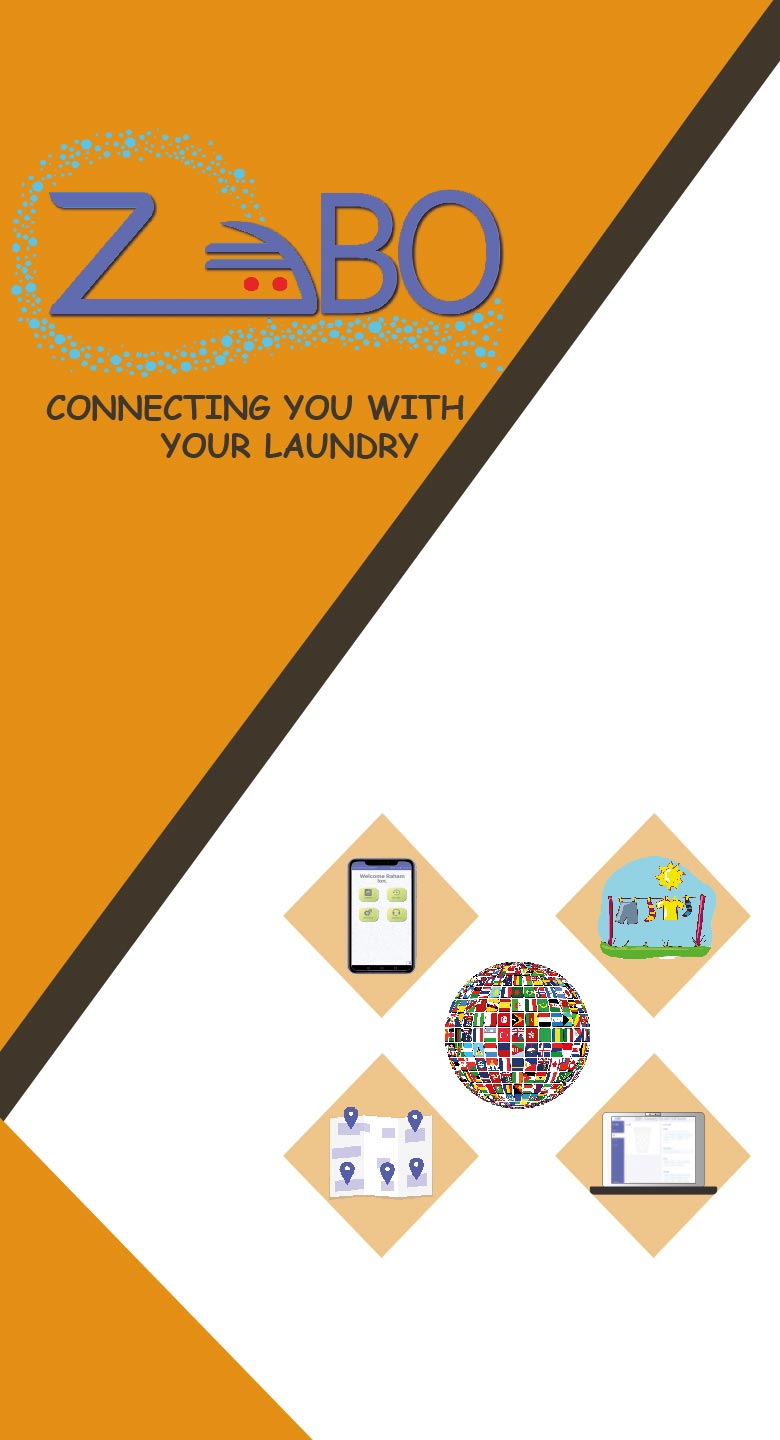
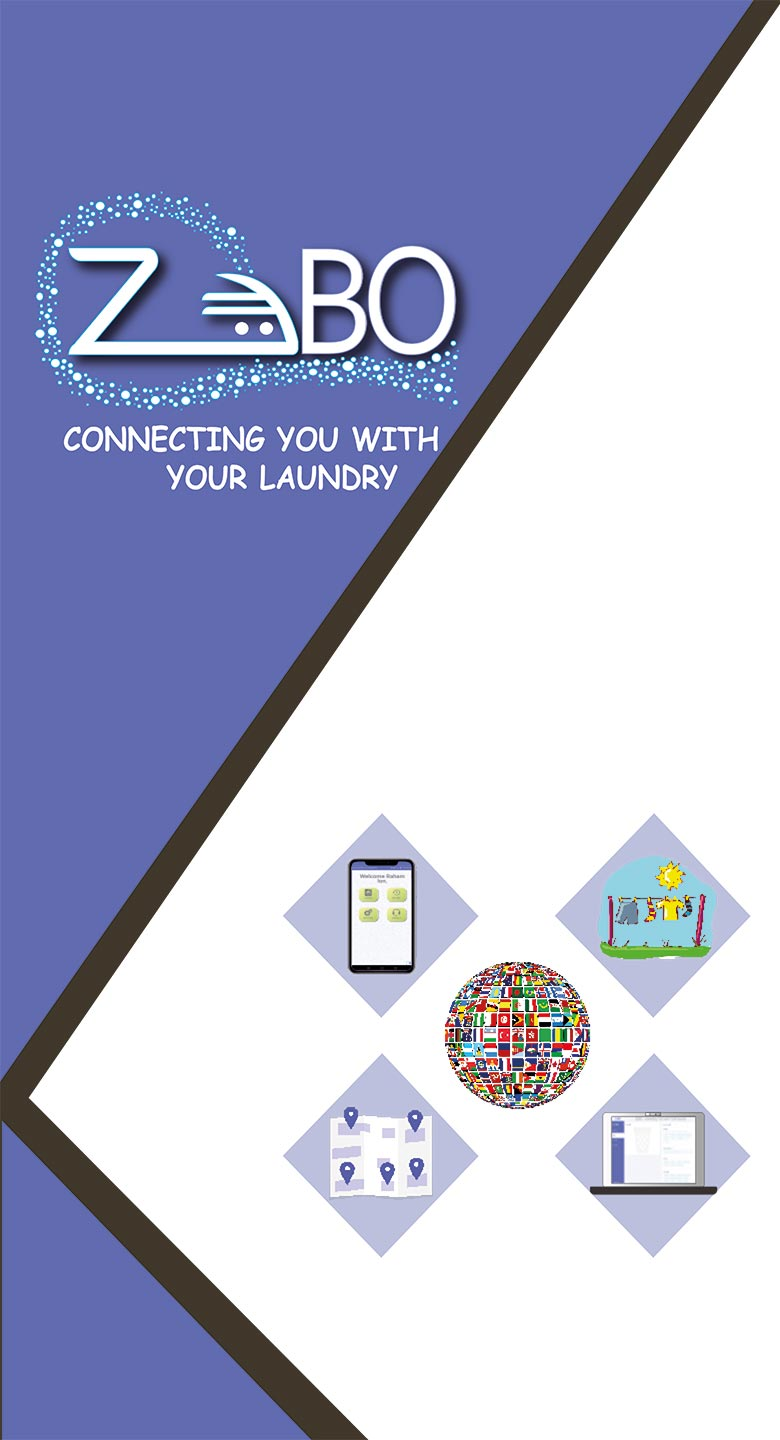
changes theme to blue
adds help center
changed favicon

diff --git a/_includes/services.html b/_includes/services.html
@@ -3,8 +3,8 @@
   <div class="container">
     <div class="row text-center">
       <div class="col-lg-10 col-lg-offset-1">
-        <h2 class="text-black">Features</h2>
-        <hr class="small border-black">
+        <h2 class="text-services">Features</h2>
+        <hr class="small border-services-line">
         <div class="row">
           <div class="col-md-3 col-sm-6">
             <div class="service-item">
@@ -12,10 +12,10 @@
               <i class="fa fa-circle fa-stack-2x"></i>
               <i class="fa fa-ellipsis-h fa-stack-1x featureIcon"></i>
             </span>
-              <h4 class="text-black">
+              <h4 class="text-services">
                 <strong>Items</strong>
               </h4>
-              <p class="text-black">Wide range of items and operations on it with febric options..</p>
+              <p class="text-services">Wide range of items and operations on it with febric options..</p>
               <button type="button" class="btn btn-light noOutline" data-toggle="modal" data-target="#itemModal">
                 Learn More
               </button>
@@ -27,10 +27,10 @@
               <i class="fa fa-circle fa-stack-2x"></i>
               <i class="fa fa-inbox fa-stack-1x featureIcon"></i>
             </span>
-              <h4 class="text-black">
+              <h4 class="text-services">
                 <strong>Basket</strong>
               </h4>
-              <p class="text-black">Add items into your basket and post them whenever you want....</p>
+              <p class="text-services">Add items into your basket and post them whenever you want....</p>
               <button type="button" class="btn btn-light noOutline" data-toggle="modal" data-target="#basketModal">
                 Learn More
               </button>
@@ -42,10 +42,10 @@
               <i class="fa fa-circle fa-stack-2x"></i>
               <i class="fa fa-building-o fa-stack-1x featureIcon"></i>
             </span>
-              <h4 class="text-black">
+              <h4 class="text-services">
                 <strong>Price</strong>
               </h4>
-              <p class="text-black">Show summary and detail prices of available laundries in area.</p>
+              <p class="text-services">Show summary and detail prices of available laundries in area.</p>
               <button type="button" class="btn btn-light noOutline" data-toggle="modal" data-target="#priceModal">
                 Learn More
               </button>
@@ -57,10 +57,10 @@
               <i class="fa fa-circle fa-stack-2x"></i>
               <i class="fa fa-dashboard fa-stack-1x featureIcon"></i>
             </span>
-              <h4 class="text-black">
+              <h4 class="text-services">
                 <strong>Easy to use</strong>
               </h4>
-              <p class="text-black">Simple interfaces, minimum steps and easy to register and use.</p>
+              <p class="text-services">Simple interfaces, minimum steps and easy to register and use.</p>
               <button type="button" class="btn btn-light noOutline" data-toggle="modal" data-target="#easyModal">
                 Learn More
               </button>

diff --git a/css/stylish-portfolio.css b/css/stylish-portfolio.css
@@ -98,8 +98,8 @@ hr.small {
 .sidebar-nav li a {
     display: block;
     text-decoration: none;
-    color:#333333;
-    background-color: #eec58b;
+    color:white;
+    background-color: #6D71EF;
 }
 
 .sidebar-nav li a:hover {
@@ -120,11 +120,11 @@ hr.small {
 }
 
 .sidebar-nav > .sidebar-brand a {
-    color: #999;
+    color: white;
 }
 
 .sidebar-nav > .sidebar-brand a:hover {
-    color: #fff;
+    color: #2b2a2a;
     background: none;
 }
 
@@ -179,7 +179,7 @@ hr.small {
 
 .services {
     padding: 50px 0;
-    background-color: #eec58b;
+    background-color: #6D71EF;
 }
 
 .service-item {
@@ -208,7 +208,7 @@ hr.small {
 
 .call-to-action {
     padding: 50px 0;
-    background-color: #eec58b;
+    background-color: #6D71EF;
 }
 
 .call-to-action .btn {
@@ -245,7 +245,7 @@ footer {
 }
 
 .featureIcon{
-    color: #e89624;
+    color: #6D71EF;
 }
 
 .text-black{
@@ -254,4 +254,16 @@ footer {
 
 .border-black{
     border-color: #333333;
+}
+
+.text-services{
+    color: white;
+}
+
+.border-services-line{
+    border-color: white;
+}
+
+.border-line-footer{
+    border-color: #6D71EF;
 }

diff --git a/_includes/footer.html b/_includes/footer.html
@@ -26,9 +26,13 @@
             <a href="https://github.com/{{ site.github_username }}"><i class="fa fa-github fa-fw fa-3x featureIcon"></i></a>
           </li>
         </ul>
-        <hr class="small">
+        <hr class="small border-line-footer">
+        <p class="text-muted">
+          <a href="https://zebo.app">Open ZEBO app</a>
+          | <a target="_blank" href="https://help.zebo.app" rel="noopener noreferrer">Help center</a> 
+        </p>
         <p class="text-muted"><a href="/">Home</a> 
-          | <a target="_blank" href="legals.html">Legal terms</a> 
+          | <a target="_blank" href="legals.html" rel="noopener noreferrer">Legal terms</a> 
           | Copyright &copy; {{ site.copyright }} 20{{ site.time | date: '%y' }}
         </p>
       </div>

diff --git a/_includes/call-to-action.html b/_includes/call-to-action.html
@@ -2,7 +2,7 @@
   <div class="container">
     <div class="row">
       <div class="col-lg-12 text-center">
-        <h3 class="text-black">Are you a mobile user and want to download it on your phone.</h3>
+        <h3 class="text-services">Are you a mobile user and want to download it on your phone.</h3>
         <a href="#"><img class="centerImg" src="img/google-play-croped.png" style="width: 139px"/></a>
         <a href="#"><img class="centerImg" src="img/apple-store-white.svg"/></a>
       </div>

diff --git a/_includes/header.html b/_includes/header.html
@@ -1,7 +1,7 @@
 <header id="top" class="header">
   <div class="text-vertical-center">
     <div class="btn-toolbar">
-    <a href="https://zebo.app/" target="blank" class="btn btn-dark btn-lg">Try Free Now</a>
+    <a href="https://zebo.app/" target="_blank" rel="noopener noreferrer" class="btn btn-dark btn-lg">Try Free Now</a>
     <a href="#about" class="btn btn-light btn-lg">Find Out More</a>
   </div>
   </div>

diff --git a/_includes/navigation.html b/_includes/navigation.html
@@ -20,5 +20,8 @@
     <li>
       <a target="_blank" href="https://zebo.app/contact" onclick = $("#menu-close").click(); >Contact</a>
     </li>
+    <li>
+      <a target="_blank" href="https://help.zebo.app/" onclick = $("#menu-close").click(); >Help</a>
+    </li>
   </ul>
 </nav>

diff --git a/_includes/head.html b/_includes/head.html
@@ -7,7 +7,7 @@
   <meta name="author" content="">
 
   <title>ZEBO</title>
-  <link rel="shortcut icon" href="img/zobo-icon-50.jpg" />
+  <link rel="shortcut icon" href="img/favicon.png" />
 
   <!-- Bootstrap Core CSS -->
   <link href="css/bootstrap.min.css" rel="stylesheet">
